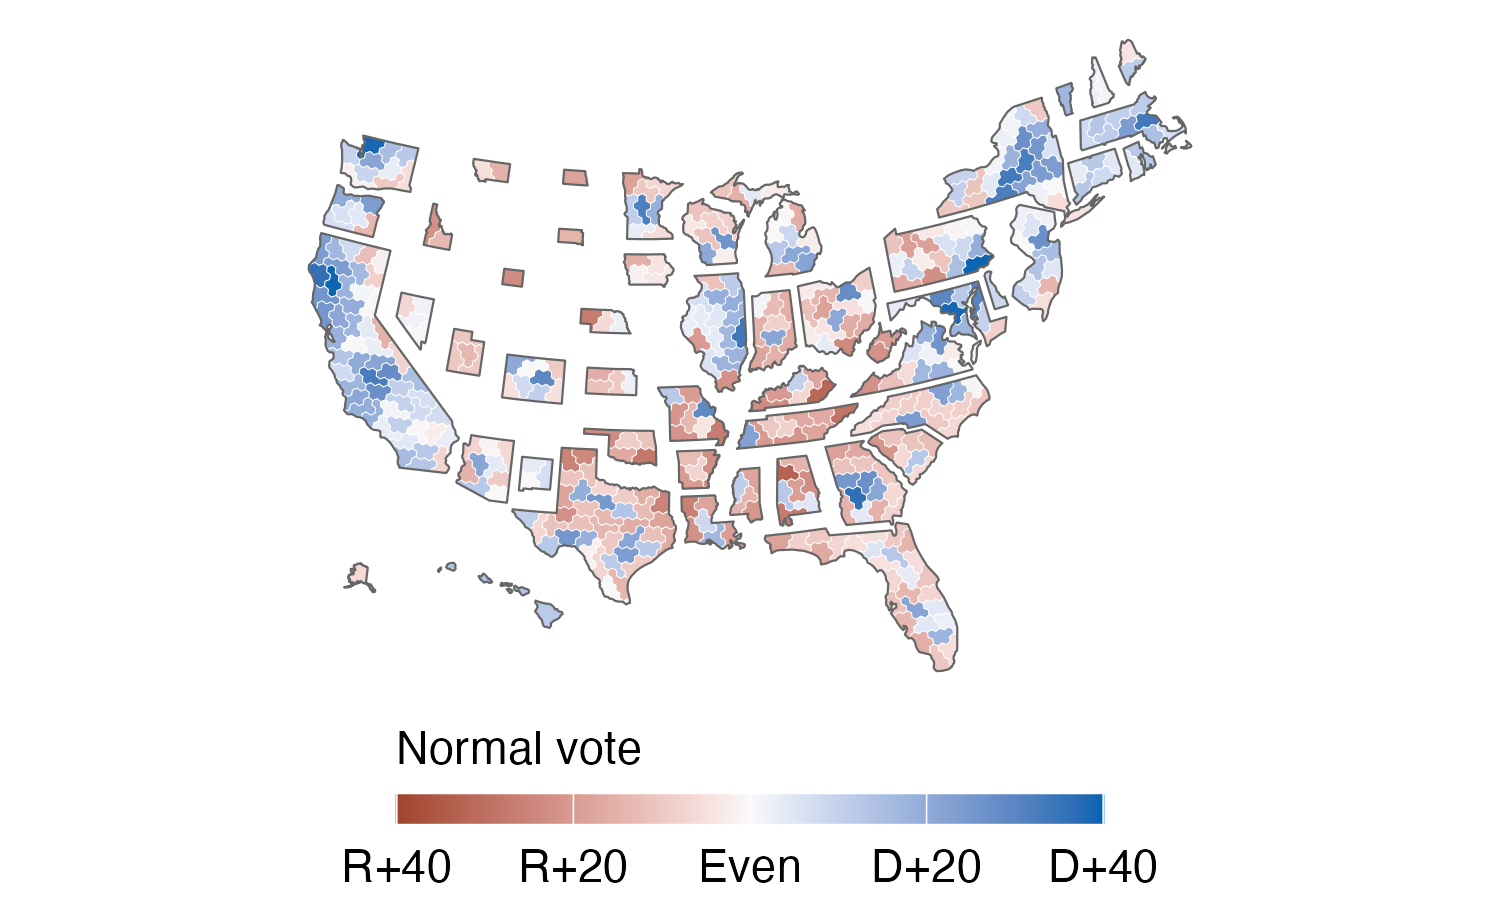
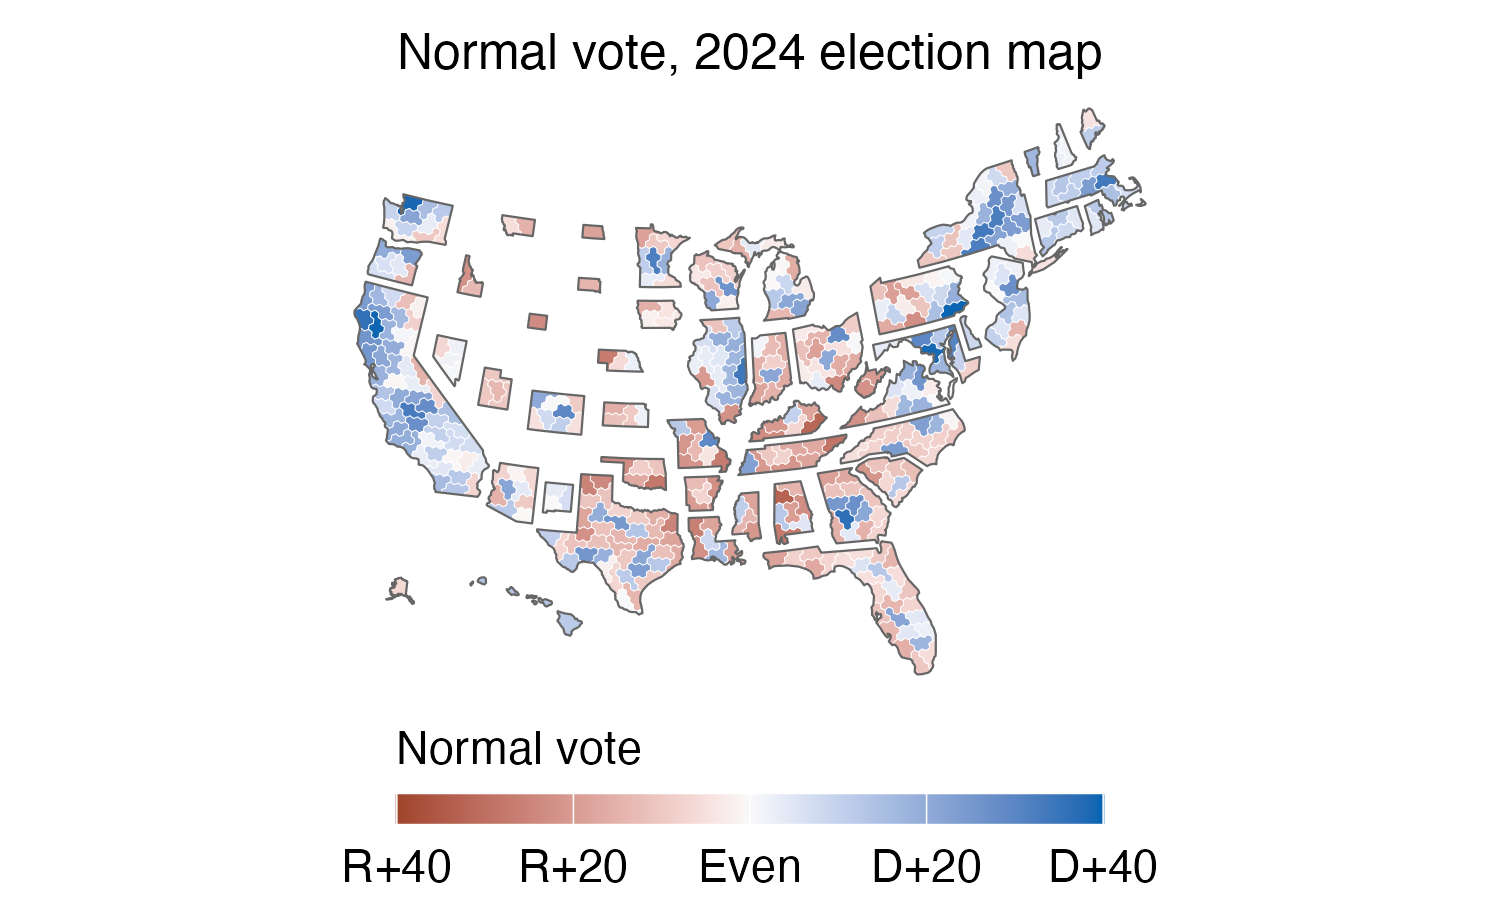
Manual re-edit

diff --git a/README.md b/README.md
@@ -233,18 +233,16 @@ documented 75/25 methodology of the well-known [Cook Partisan Voting
 Index (Cook PVI)](https://www.cookpolitical.com/cook-pvi). It averages
 the district’s Democratic two-party vote share relative to the national
 share in the two most recent presidential elections, weighting the newer
-election 75% and the older election 25%. National shares include DC;
-third-party votes are excluded from the denominator. The numeric
-`normal_vote` column is unrounded and expressed as a proportion: `0.05`
-means five percentage points more Democratic than the nation, and
-`-0.05` means five points more Republican.
+election 75% and the older election 25%. `+0.05` thus indicates five
+percentage points more Democratic than the nation, and `-0.05` indicates
+five points more Republican.
 
-The map below uses the **2024 election’s district boundaries**,
+The map below uses the **2024** election’s district boundaries,
 corresponding to `year = 2025` / the 119th Congress, with 2020 and 2024
-presidential returns available for all 435 districts. The 2027 district
-table retains missing values where 2020 returns on the redrawn
-boundaries are unavailable; see `?cd_normal_vote` and `cd_available()`
-for coverage.
+presidential returns available for all 435 districts. Cook’s PVI for the
+2027 map can be obtained from their
+[website](https://www.cookpolitical.com/cook-pvi) but we do not download
+them here due to their stringent IP rules.
 
 Red indicates a Republican lean and blue a Democratic lean. The legend
 is in percentage points. The optional `ggredist` package supplies the
@@ -286,12 +284,14 @@ ggplot(hex_normal_vote) +
     aes(group = state), fill = NA, color = "grey40", linewidth = 0.25,
     show.legend = FALSE
   ) +
+  labs(title = "Normal vote, 2024 election map") +
   ggredist::scale_fill_party_c(
     name = "Normal vote", midpoint = 0, limits = c(-0.4, 0.4),
     labels = ggredist::label_party_margin(midpoint = 0)
   ) +
   ggredist::theme_map(
     text = element_text(family = "sans", size = 11, color = "black"),
+    plot.title = element_text(size = 12, hjust = 0.5),
     legend.position = "bottom",
     legend.title.position = "top",
     legend.text = element_text(size = 11, color = "black"),
